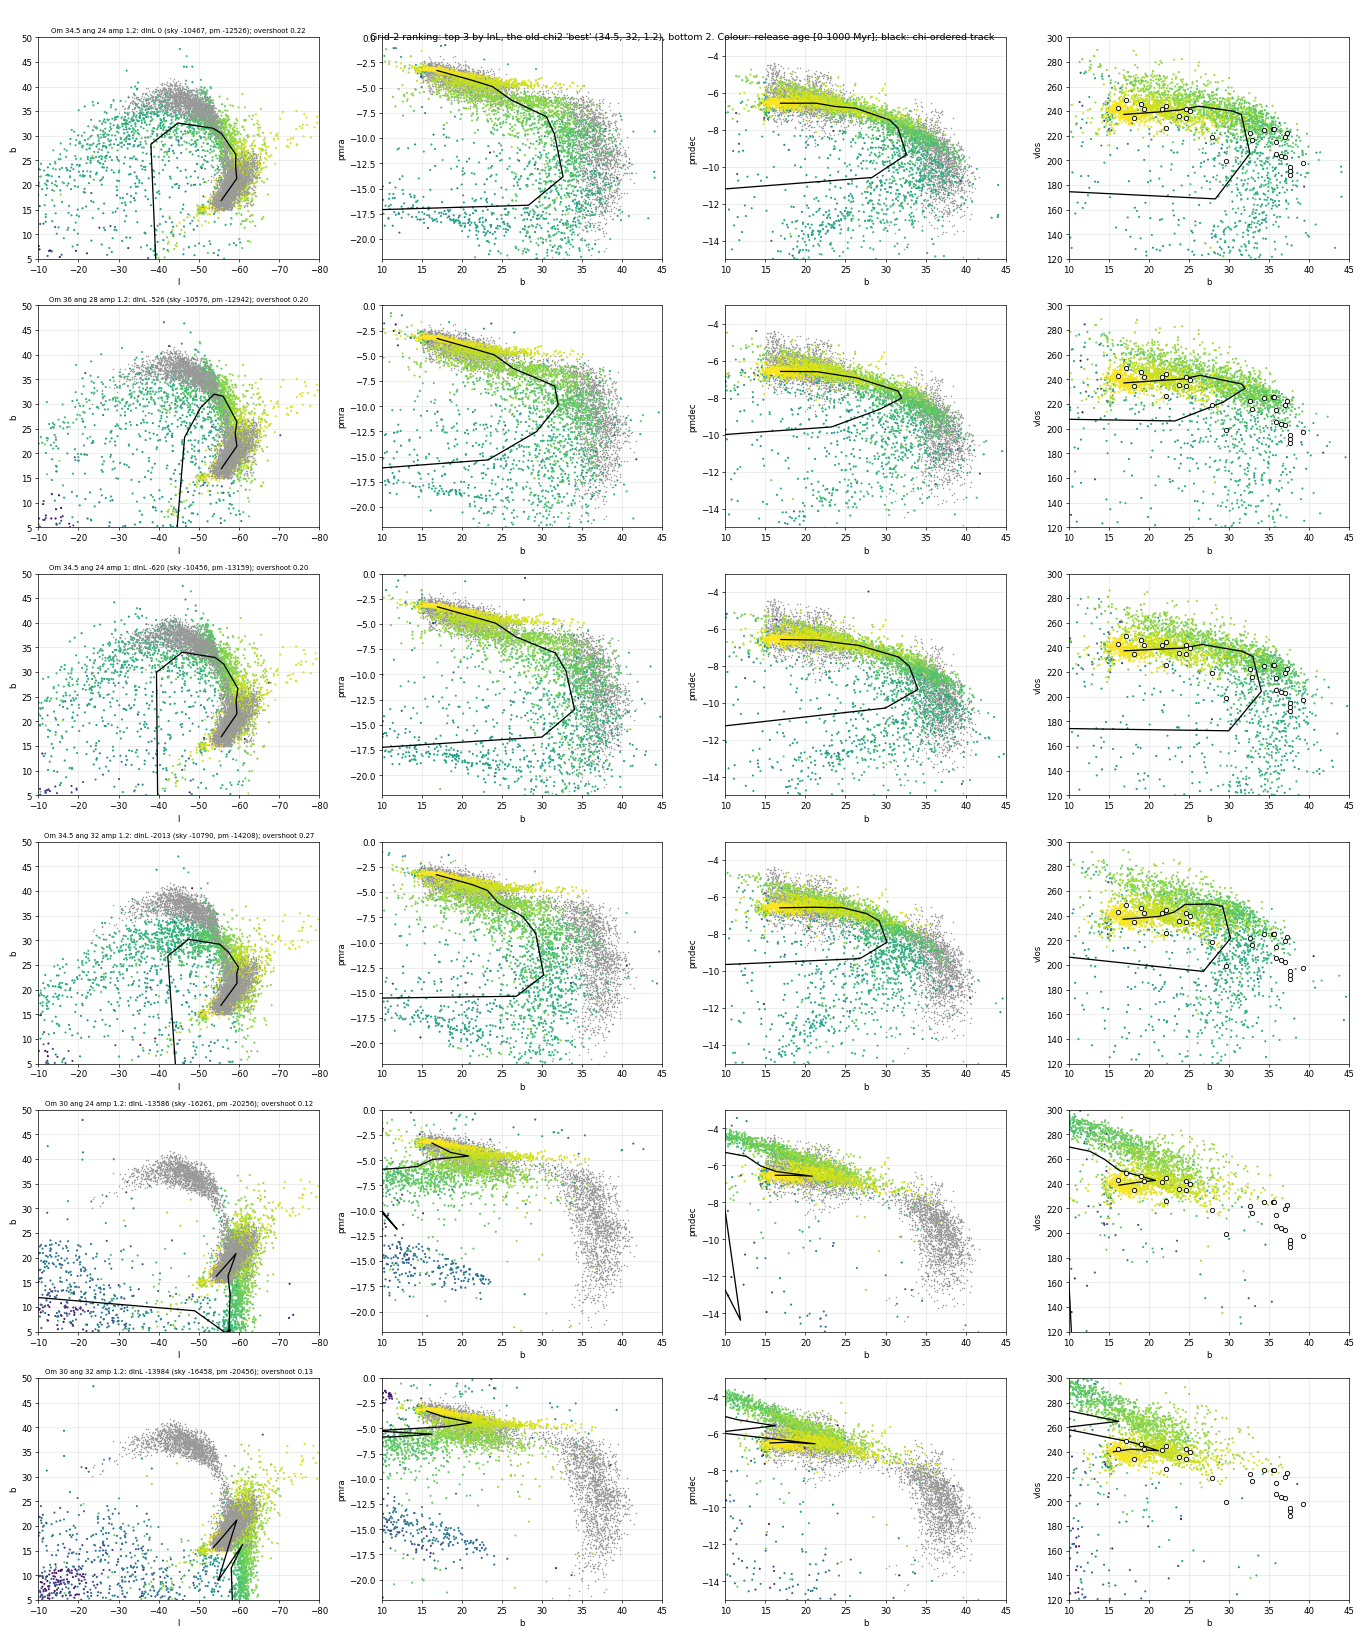
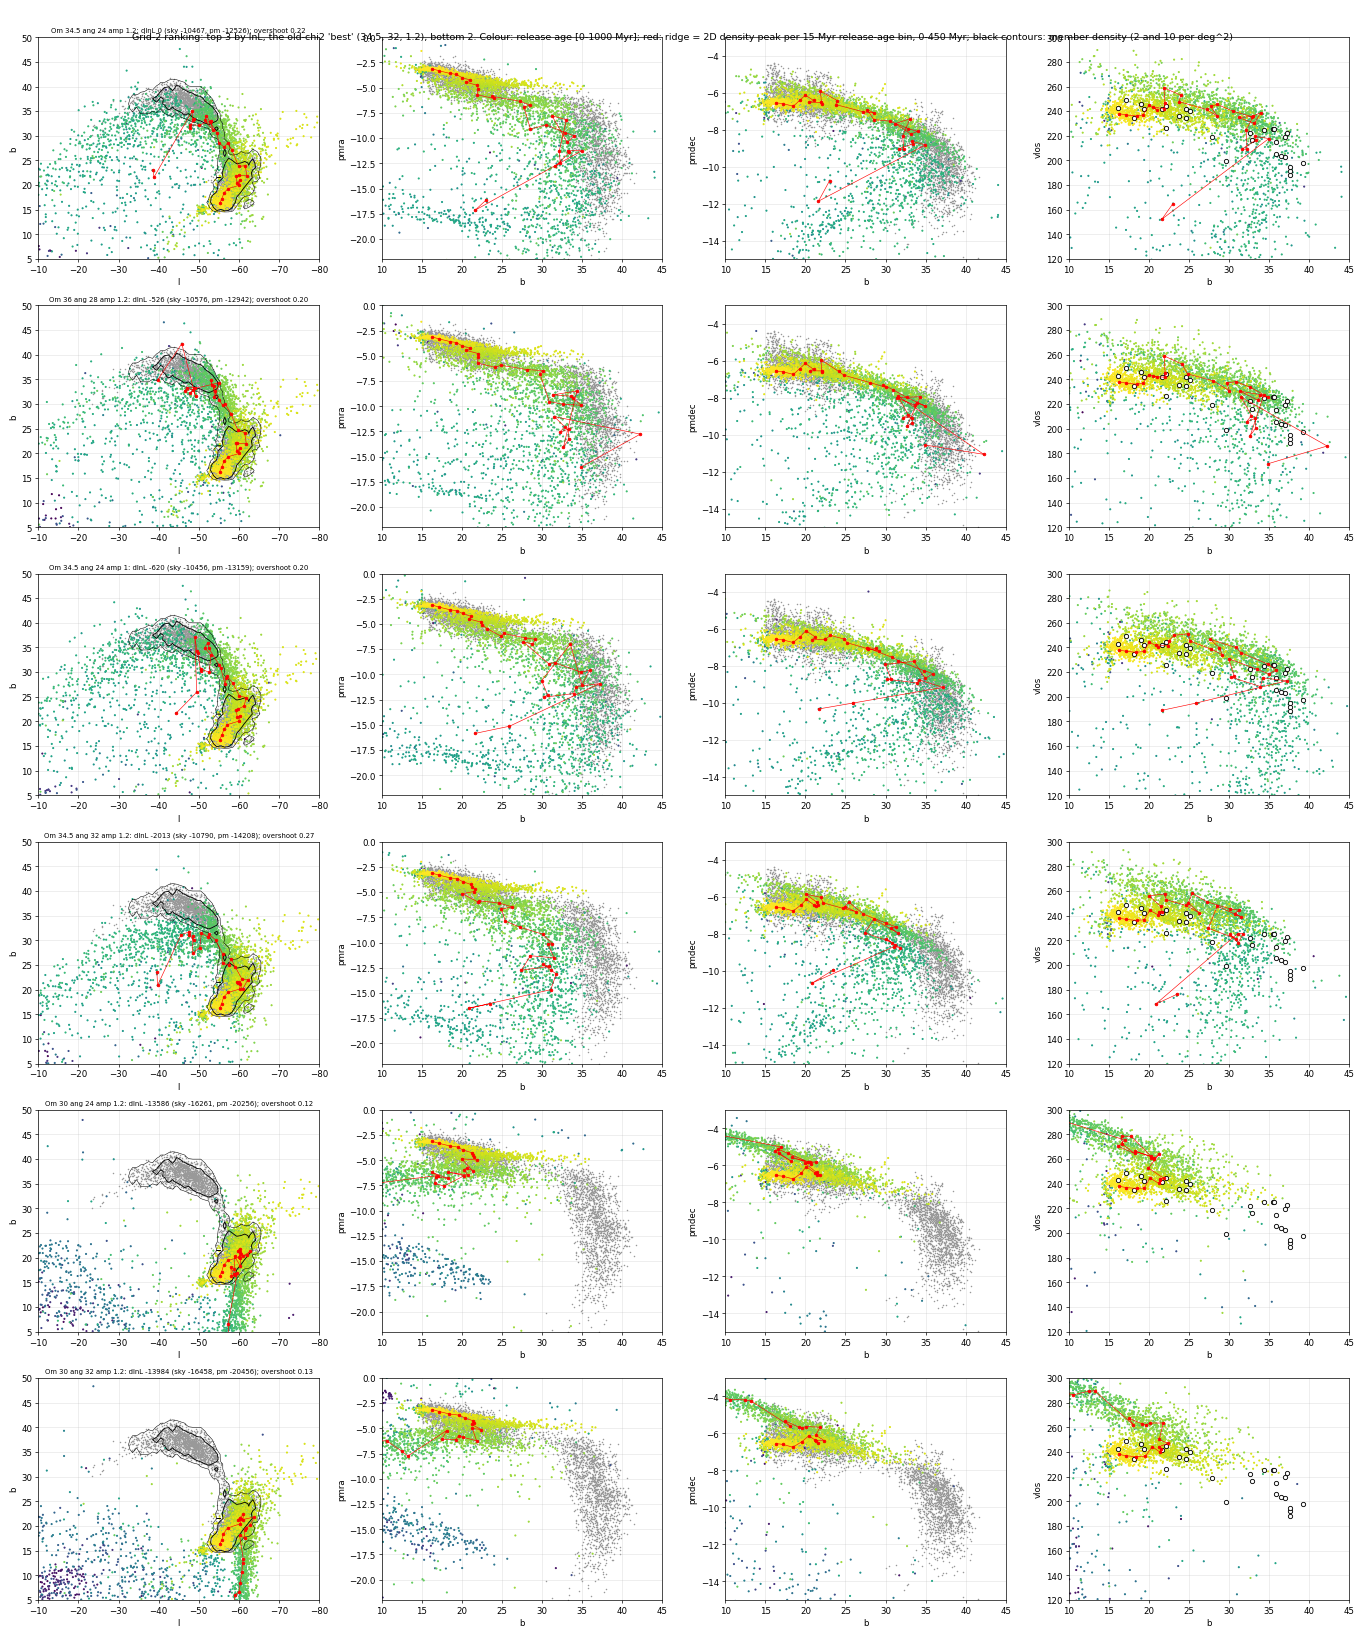
Display ridge (tracking density peak per release-age bin) and corrected layering in the grid-2 model figure

diff --git a/src/ocen_dm/streams/score.py b/src/ocen_dm/streams/score.py
@@ -82,3 +82,67 @@ def chi_track(chi, obs, nq=20):
         for k, v in obs.items():
             out[k].append(float(np.median(v[s])))
     return out
+
+
+def chi_ridge(chi, l, b, extra, nbins=40, h=1.0, rmatch=1.0, min_rel_density=0.05, nmax_kde=3000, max_jump=6.0):
+    """Ridge of a stream along the Gibbons phase chi (> 0): in each of nbins equal-number chi bins, the (l, b) point of maximum
+    2D Gaussian-kernel density (bandwidth h deg, evaluated at the bin's particles), and medians of the `extra` observables
+    (dict name -> array) over the bin's particles within rmatch deg of that point. The ridge is truncated at the first bin
+    whose peak density (particles per deg^2, from the kernel sum) falls below min_rel_density x the maximum over bins, or at the
+    second consecutive point more than max_jump deg (sky) from the last kept point; a single outlying bin (chi jumps at
+    pericentres) is skipped, two in a row mean the stream has left the coherent arm.
+    Returns dict of arrays: chi, l, b, density and each extra observable."""
+    from scipy.spatial import cKDTree
+    k = chi > 0
+    chi, l, b = chi[k], l[k], b[k]; ex = {n: v[k] for n, v in extra.items()}
+    qs = np.percentile(chi, np.linspace(0, 100, nbins+1))
+    rows = []
+    for lo, hi in zip(qs[:-1], qs[1:]):
+        s = np.where((chi >= lo) & (chi < hi))[0]
+        if len(s) < 10:
+            continue
+        pts = np.column_stack((l[s], b[s]))
+        cand = pts if len(s) <= nmax_kde else pts[np.linspace(0, len(s)-1, nmax_kde).astype(int)]
+        tree = cKDTree(pts)
+        dens = np.array([np.sum(np.exp(-0.5*np.sum((pts[j]-c)**2, axis=1)/h**2))
+                         for c, j in zip(cand, tree.query_ball_point(cand, 3*h))])/(2*np.pi*h**2)
+        c = cand[np.argmax(dens)]
+        m = np.sum((pts-c)**2, axis=1) < rmatch**2
+        rows.append(dict(chi=float(np.median(chi[s])), l=float(c[0]), b=float(c[1]), density=float(dens.max()),
+                         **{n: float(np.median(v[s][m])) for n, v in ex.items()}))
+    dmax = max(r["density"] for r in rows)
+    out = []
+    miss = 0
+    for r in rows:
+        if r["density"] < min_rel_density*dmax:
+            break
+        if out and np.hypot(r["l"]-out[-1]["l"], r["b"]-out[-1]["b"]) > max_jump:
+            miss += 1
+            if miss == 2:
+                break
+            continue
+        miss = 0
+        out.append(r)
+    return {key: np.array([r[key] for r in out]) for key in out[0]}
+
+
+def age_ridge(age, l, b, extra, dage=15., age_max=450., h=1.0, rmatch=1.0, nmin=15, centre=(-50.9, 15.0), r_excl=1.5, track=4.0):
+    """Display ridge of the trailing arm: in release-age bins of width dage [Myr] up to age_max, the (l, b) point of maximum 2D
+    Gaussian-kernel density (bandwidth h deg) and medians of `extra` observables within rmatch deg of it. Release age is monotonic
+    by construction; used for plotting/diagnosis only (not in the likelihood). Bins with < nmin particles are skipped.
+    Particles within r_excl deg of the cluster (still bound / recaptured) are excluded. Tracking: the peak maximises
+    density x exp(-|c - previous ridge point|^2 / (2 track^2)), starting from the cluster, so branches of debris released at
+    the same time do not make the ridge jump."""
+    from scipy.spatial import cKDTree
+    rows = []; prev = np.array(centre, float)
+    keep = np.hypot(l-centre[0], b-centre[1]) > r_excl
+    for a0 in np.arange(0., age_max, dage):
+        s = np.where(keep & (age >= a0) & (age < a0+dage))[0]
+        if len(s) < nmin:
+            continue
+        pts = np.column_stack((l[s], b[s])); tree = cKDTree(pts)
+        dens = np.array([np.sum(np.exp(-0.5*np.sum((pts[j]-c)**2, axis=1)/h**2)) for c, j in zip(pts, tree.query_ball_point(pts, 3*h))])
+        c = pts[np.argmax(dens*np.exp(-0.5*np.sum((pts-prev)**2, axis=1)/track**2))]; prev = c
+        m = np.sum((pts-c)**2, axis=1) < rmatch**2
+        rows.append(dict(age=a0+dage/2, l=float(c[0]), b=float(c[1]), n=int(len(s)), **{n: float(np.median(v[s][m])) for n, v in extra.items()}))
+    return {key: np.array([r[key] for r in rows]) for key in rows[0]}

diff --git a/bin/streams/plot_spray_bar_grid2.py b/bin/streams/plot_spray_bar_grid2.py
@@ -9,6 +9,8 @@ from pathlib import Path
 ROOT = Path(__file__).resolve().parents[2]; sys.path.insert(0, str(ROOT/"bin/streams"))
 import numpy as np, matplotlib; matplotlib.use("Agg"); import matplotlib.pyplot as plt
 from spray_bar_grid2 import load_data
+sys.path.insert(0, str(ROOT/'src'))
+from ocen_dm.streams.score import age_ridge
 
 G = json.loads((ROOT/"results/plot_data/spray_bar_grid2.json").read_text())["grid"]
 om = sorted({x["omega"] for x in G}); an = sorted({x["angle"] for x in G}); am = sorted({x["amp"] for x in G})
@@ -36,18 +38,22 @@ sel = srt[:3] + [x for x in G if (x["omega"], x["angle"], x["amp"]) == (34.5, 32
 fig, ax = plt.subplots(len(sel), 4, figsize=(22, 4.4*len(sel)), squeeze=False)
 for i, x in enumerate(sel):
     tag = f"om{x['omega']:g}_an{x['angle']:g}_am{x['amp']:g}"; m = np.load(ROOT/f"results/streams/spray_grid2/{tag}.npz")
-    k = (m["b"] > 5) & (m["l"] < -10) & (m["l"] > -80); ct = x["chi_track"]
+    k = (m["b"] > 5) & (m["l"] < -10) & (m["l"] > -80)
+    ct = age_ridge(m["age"], m["l"], m["b"], dict(pmra=m["pmra"], pmdec=m["pmdec"], vlos=m["vlos"], d=m["d"]))
     kw = dict(c=m["age"][k], cmap="viridis_r", vmin=0, vmax=1000, s=2)
-    a = ax[i, 0]; a.plot(d["l"], d["b"], ".", color="0.6", ms=1.5); a.scatter(m["l"][k], m["b"][k], **kw); a.plot(ct["l"], ct["b"], "k-", lw=1.5)
+    a = ax[i, 0]; a.plot(d["l"], d["b"], ".", color="0.6", ms=1.5, zorder=1); a.scatter(m["l"][k], m["b"][k], zorder=2, **kw)
+    H, xe, ye = np.histogram2d(d["l"], d["b"], bins=(np.arange(-80, -9, 1.), np.arange(5, 51, 1.)))   # member density outline on top
+    a.contour(0.5*(xe[1:]+xe[:-1]), 0.5*(ye[1:]+ye[:-1]), H.T, levels=[2, 10], colors=["k", "k"], linewidths=[0.6, 1.0], zorder=4)
+    a.plot(ct["l"], ct["b"], "r-", lw=0.7, zorder=5); a.plot(ct["l"], ct["b"], "ro", ms=3, zorder=6)
     a.set_xlim(-10, -80); a.set_ylim(5, 50); a.set_xlabel("l"); a.set_ylabel("b")
     a.set_title(f"Om {x['omega']:g} ang {x['angle']:g} amp {x['amp']:g}: dlnL {x['score']['total']-best:.0f} (sky {x['score']['sky']:.0f}, pm {x['score']['pm']:.0f}); overshoot {x['overshoot']:.2f}", fontsize=8)
     for jj, (q, dq, yl) in enumerate((("pmra", d["pmra"], (-22, 0)), ("pmdec", d["pmdec"], (-15, -3)), ("vlos", d["v"], (120, 300)))):
         a = ax[i, jj+1]
         a.plot(d["b"], dq, "o" if q == "vlos" else ".", color="k" if q == "vlos" else "0.6", ms=5 if q == "vlos" else 1.5, mfc="w" if q == "vlos" else None, zorder=5 if q == "vlos" else 1)
-        a.scatter(m["b"][k], m[q][k], **kw); a.plot(ct["b"], ct[q], "k-", lw=1.5); a.set_xlim(10, 45); a.set_ylim(*yl); a.set_xlabel("b"); a.set_ylabel(q)
+        a.scatter(m["b"][k], m[q][k], zorder=2, **kw); a.plot(ct["b"], ct[q], "r-", lw=0.7, zorder=6); a.plot(ct["b"], ct[q], "ro", ms=3, zorder=7); a.set_xlim(10, 45); a.set_ylim(*yl); a.set_xlabel("b"); a.set_ylabel(q)
     for a in ax[i]:
         a.grid(alpha=0.3)
-fig.suptitle("Grid-2 ranking: top 3 by lnL, the old-chi2 'best' (34.5, 32, 1.2), bottom 2. Colour: release age [0-1000 Myr]; black: chi-ordered track", fontsize=11)
+fig.suptitle("Grid-2 ranking: top 3 by lnL, the old-chi2 'best' (34.5, 32, 1.2), bottom 2. Colour: release age [0-1000 Myr]; red: ridge = 2D density peak per 15-Myr release-age bin, 0-450 Myr; black contours: member density (2 and 10 per deg^2)", fontsize=11)
 fig.tight_layout(); fig.savefig(ROOT/"plots/spray_bar_grid2_models.png", dpi=62)
 for x in srt[:8]:
     print(x["omega"], x["angle"], x["amp"], round(x["score"]["total"]-best), round(x["score"]["sky"]), round(x["score"]["pm"]), round(x["score"]["vlos"]), round(x["overshoot"], 2))

diff --git a/JOURNAL.md b/JOURNAL.md
@@ -6814,3 +6814,17 @@ debris) up to b ~ 33-38 with PMs overlapping the data to b ~ 38; the chi track t
 Remaining misfit: at b 33-38 the model arm lies at l -50..-57 (data -44..-50) and v_los 215-240 (data 190-225). The best
 points sit at the grid edges (angle 24, amplitude 1.2, Omega 34.5-36): the grid must be extended (lower angle, stronger bar,
 faster pattern).
+
+## 2026-10-09 -- Display ridge for spray models; corrected plot layering
+
+plots/spray_bar_grid2_models.png was misleading in the sky panel: members drawn with plot() (zorder 2) hid the model scatter
+(zorder 1); fixed (model on top, member-density contours at 2 and 10 per deg^2). With the fix, the best models populate the
+observed knee on the sky. The chi-quantile median track (score.chi_track) is not a ridge (separate medians of l and b in mixed
+bins fall into empty space); chi-binned density peaks (chi_ridge) jump because chi spikes at pericentres and the arm at b 25-33
+is sparse. Adopted for display: score.age_ridge -- 15-Myr release-age bins (0-450 Myr), particles within 1.5 deg of the cluster
+excluded (still bound / recaptured; Gibbons+2014: ~25% of spray particles stay with the progenitor), tracking peak = argmax of
+2D kernel density (h = 1 deg) x exp(-|c - previous|^2 / (2 x 4^2)). Not used in the likelihood.
+Best model (34.5, 24, 1.2) ridge: (l, b) -55.2, 16.3 (8 Myr) -> -60, 22 (130 Myr) -> -57, 28.5 (200) -> -52.8, 32.8 (262) ->
+-48, 32-35 (350-412 Myr), where pmra -11.2..-12.8, pmdec -8.6..-9.1, v_los 209-219, d 4.1-4.2 kpc; data at b 34-36: l -50.8/-48.3,
+pmra -8.5/-10.0, pmdec -8.54/-9.53, v_los ~205-225, d ~4.8-5.0. The ridge then leaves the arm (428-442 Myr: -38.8, 21.6).
+On the knee: sky position and v_los match; pmdec within ~0.5; pmra ~1.5 too negative; distance ~0.6 kpc too close.
